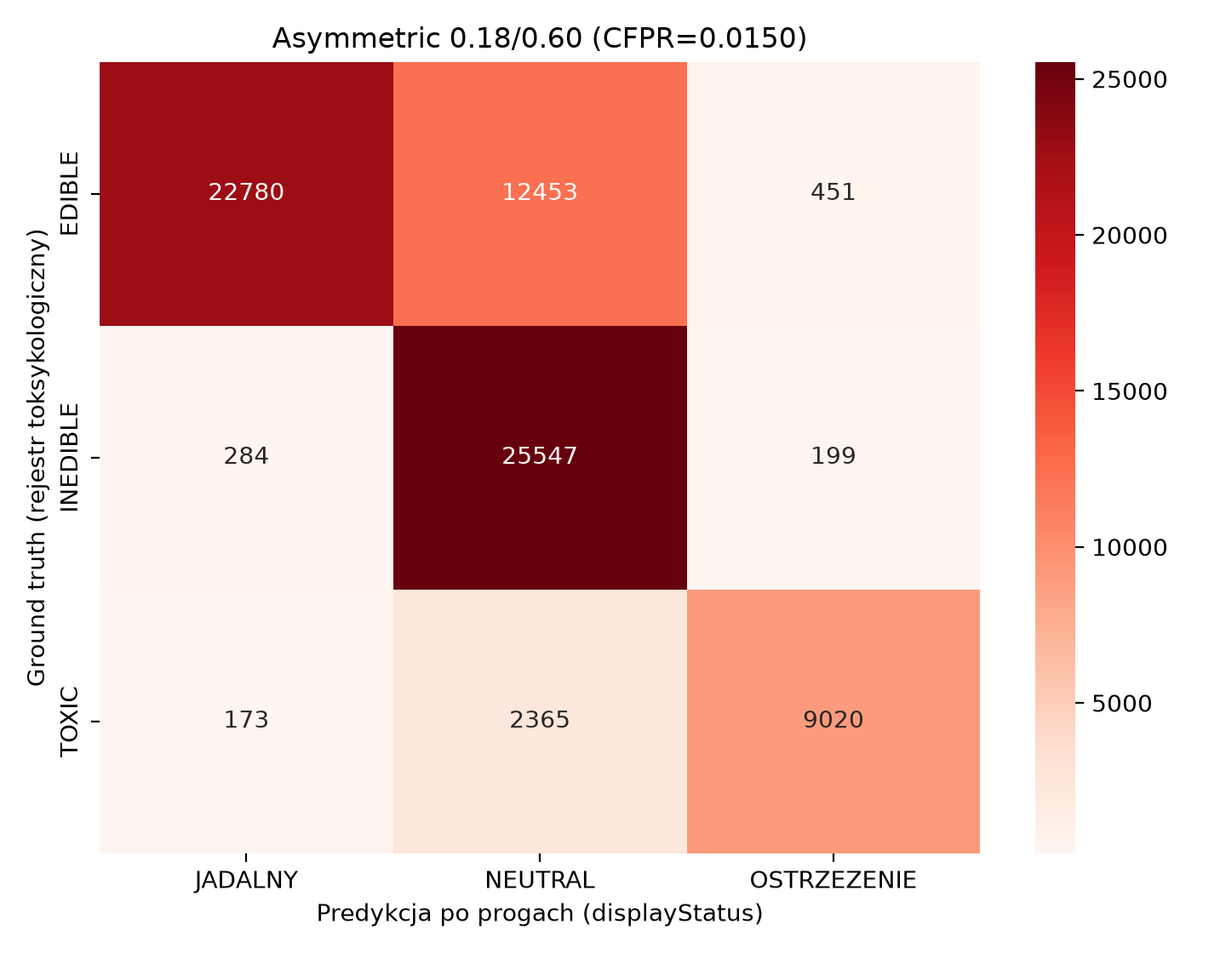
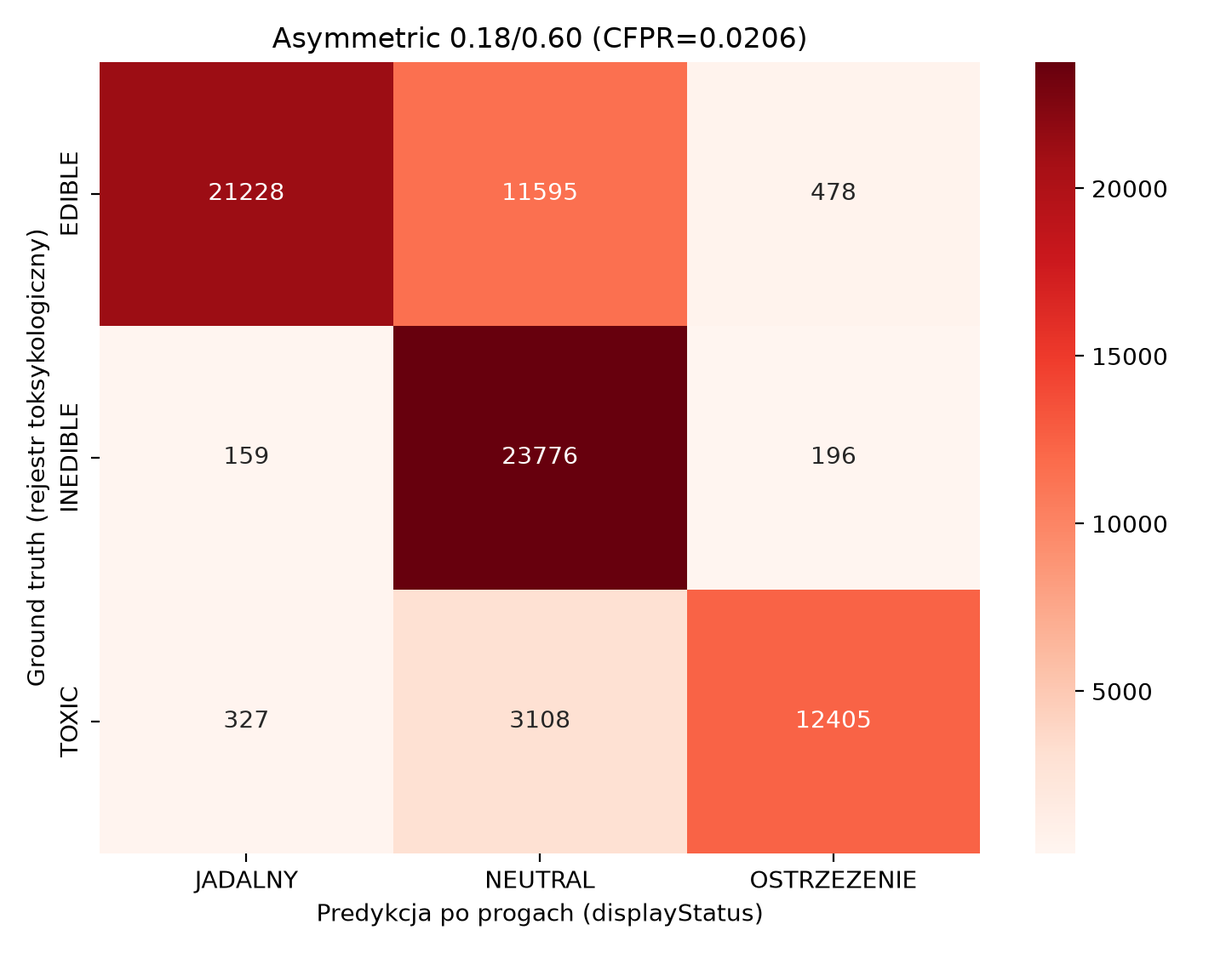
fix: update toxicity classifications for various mushroom species in MushroomRegistry and related documentation

diff --git a/android/app/src/main/java/com/pw/mushroom/model/MushroomRegistry.kt b/android/app/src/main/java/com/pw/mushroom/model/MushroomRegistry.kt
@@ -64,7 +64,7 @@ object MushroomRegistry {
         7 to MushroomSpecies(7, "Boletus reticulatus", Toxicity.EDIBLE),
         8 to MushroomSpecies(8, "Calvatia gigantea", Toxicity.EDIBLE),
         9 to MushroomSpecies(9, "Cantharellus cibarius", Toxicity.EDIBLE),
-        10 to MushroomSpecies(10, "Clavulina coralloides", Toxicity.EDIBLE),
+        10 to MushroomSpecies(10, "Clavulina coralloides", Toxicity.INEDIBLE),
         11 to MushroomSpecies(11, "Clitocybe nebularis", Toxicity.INEDIBLE),
         12 to MushroomSpecies(12, "Coprinus comatus", Toxicity.EDIBLE),
         13 to MushroomSpecies(13, "Craterellus cornucopioides", Toxicity.EDIBLE),
@@ -89,12 +89,12 @@ object MushroomRegistry {
         32 to MushroomSpecies(32, "Russula cyanoxantha", Toxicity.EDIBLE),
         33 to MushroomSpecies(33, "Russula emetica", Toxicity.POISONOUS),
         34 to MushroomSpecies(34, "Russula virescens", Toxicity.EDIBLE),
-        35 to MushroomSpecies(35, "Sarcoscypha coccinea", Toxicity.EDIBLE),
+        35 to MushroomSpecies(35, "Sarcoscypha coccinea", Toxicity.INEDIBLE),
         36 to MushroomSpecies(36, "Schizophyllum commune", Toxicity.INEDIBLE),
         37 to MushroomSpecies(37, "Suillus luteus", Toxicity.EDIBLE),
         38 to MushroomSpecies(38, "Trametes versicolor", Toxicity.INEDIBLE),
         39 to MushroomSpecies(39, "Tremella mesenterica", Toxicity.INEDIBLE),
-        40 to MushroomSpecies(40, "Tricholoma equestre", Toxicity.EDIBLE),
+        40 to MushroomSpecies(40, "Tricholoma equestre", Toxicity.POISONOUS),
         41 to MushroomSpecies(41, "Xerocomus chrysenteron", Toxicity.EDIBLE),
         42 to MushroomSpecies(42, "Cantharellus tubaeformis", Toxicity.EDIBLE),
         43 to MushroomSpecies(43, "Collybia dryophila", Toxicity.EDIBLE),
@@ -105,7 +105,7 @@ object MushroomRegistry {
         48 to MushroomSpecies(48, "Mycena pura", Toxicity.POISONOUS),
         49 to MushroomSpecies(49, "Hypholoma fasciculare", Toxicity.POISONOUS),
         50 to MushroomSpecies(50, "Pholiota squarrosa", Toxicity.INEDIBLE),
-        51 to MushroomSpecies(51, "Stropharia aeruginosa", Toxicity.INEDIBLE),
+        51 to MushroomSpecies(51, "Stropharia aeruginosa", Toxicity.POISONOUS),
         52 to MushroomSpecies(52, "Psilocybe semilanceata", Toxicity.POISONOUS),
         53 to MushroomSpecies(53, "Inocybe geophylla", Toxicity.POISONOUS),
         54 to MushroomSpecies(54, "Cortinarius armillatus", Toxicity.INEDIBLE),
@@ -122,15 +122,15 @@ object MushroomRegistry {
         65 to MushroomSpecies(65, "Cyathus striatus", Toxicity.INEDIBLE),
         66 to MushroomSpecies(66, "Crucibulum laeve", Toxicity.INEDIBLE),
         67 to MushroomSpecies(67, "Helvella crispa", Toxicity.INEDIBLE),
-        68 to MushroomSpecies(68, "Verpa bohemica", Toxicity.EDIBLE),
+        68 to MushroomSpecies(68, "Verpa bohemica", Toxicity.INEDIBLE),
         69 to MushroomSpecies(69, "Amanita rubescens", Toxicity.EDIBLE),
         70 to MushroomSpecies(70, "Amanita citrina", Toxicity.INEDIBLE),
         71 to MushroomSpecies(71, "Amanita fulva", Toxicity.EDIBLE),
         72 to MushroomSpecies(72, "Russula nigricans", Toxicity.INEDIBLE),
         73 to MushroomSpecies(73, "Russula xerampelina", Toxicity.EDIBLE),
         74 to MushroomSpecies(74, "Russula paludosa", Toxicity.EDIBLE),
-        75 to MushroomSpecies(75, "Lactarius torminosus", Toxicity.INEDIBLE),
-        76 to MushroomSpecies(76, "Lactarius turpis", Toxicity.INEDIBLE),
+        75 to MushroomSpecies(75, "Lactarius torminosus", Toxicity.POISONOUS),
+        76 to MushroomSpecies(76, "Lactarius turpis", Toxicity.POISONOUS),
         77 to MushroomSpecies(77, "Lactarius piperatus", Toxicity.INEDIBLE),
         78 to MushroomSpecies(78, "Lactarius rufus", Toxicity.INEDIBLE),
         79 to MushroomSpecies(79, "Suillus granulatus", Toxicity.EDIBLE),
@@ -168,7 +168,7 @@ object MushroomRegistry {
         109 to MushroomSpecies(109, "Cerioporus squamosus", Toxicity.EDIBLE),
         110 to MushroomSpecies(110, "Clitocybe odora", Toxicity.EDIBLE),
         111 to MushroomSpecies(111, "Coprinellus micaceus", Toxicity.EDIBLE),
-        112 to MushroomSpecies(112, "Coprinopsis atramentaria", Toxicity.INEDIBLE),
+        112 to MushroomSpecies(112, "Coprinopsis atramentaria", Toxicity.POISONOUS),
         113 to MushroomSpecies(113, "Crepidotus variabilis", Toxicity.INEDIBLE),
         114 to MushroomSpecies(114, "Geastrum triplex", Toxicity.INEDIBLE),
         115 to MushroomSpecies(115, "Grifola frondosa", Toxicity.EDIBLE),
@@ -190,8 +190,8 @@ object MushroomRegistry {
         131 to MushroomSpecies(131, "Neoboletus luridiformis", Toxicity.EDIBLE),
         132 to MushroomSpecies(132, "Panaeolus foenisecii", Toxicity.POISONOUS),
         133 to MushroomSpecies(133, "Pleurotus pulmonarius", Toxicity.EDIBLE),
-        134 to MushroomSpecies(134, "Pluteus salicinus", Toxicity.INEDIBLE),
-        135 to MushroomSpecies(135, "Russula foetens", Toxicity.INEDIBLE),
+        134 to MushroomSpecies(134, "Pluteus salicinus", Toxicity.POISONOUS),
+        135 to MushroomSpecies(135, "Russula foetens", Toxicity.POISONOUS),
         136 to MushroomSpecies(136, "Russula ochroleuca", Toxicity.INEDIBLE),
         137 to MushroomSpecies(137, "Russula vesca", Toxicity.EDIBLE),
         138 to MushroomSpecies(138, "Scleroderma verrucosum", Toxicity.POISONOUS),
@@ -201,7 +201,7 @@ object MushroomRegistry {
         142 to MushroomSpecies(142, "Suillus variegatus", Toxicity.EDIBLE),
         143 to MushroomSpecies(143, "Trametes gibbosa", Toxicity.INEDIBLE),
         144 to MushroomSpecies(144, "Tricholoma scalpturatum", Toxicity.EDIBLE),
-        145 to MushroomSpecies(145, "Tricholoma terreum", Toxicity.EDIBLE),
+        145 to MushroomSpecies(145, "Tricholoma terreum", Toxicity.POISONOUS),
         146 to MushroomSpecies(146, "Xylaria polymorpha", Toxicity.INEDIBLE)
     )
 

diff --git a/dyploma/tresc_pracy.tex b/dyploma/tresc_pracy.tex
@@ -605,7 +605,7 @@ Granica między przygotowaniem modelu a czasem wykonania przebiega na artefakcie
  \caption{Podział systemu na warstwę przygotowania danych i uczenia, warstwę konwersji modelu oraz warstwę wykonawczą urządzenia mobilnego. Źródło: opracowanie własne.}
  \label{fig:warstwy}
 \end{figure}
-Przepływ danych przez system to jednokierunkowy ośmioetapowy potok. Klasa \texttt{ImageAnalysis} CameraX dostarcza klatki ze strategią \texttt{STRATEGY\_KEEP\_ONLY\_LATEST}. Starsze klatki są odrzucane, zanim zdążą się kolejkować. \texttt{Mutex.tryLock()} ogranicza tempo do $4$\,FPS w trybie standardowym ($250$\,ms) lub do $1{,}5$\,s \textit{heartbeat} po ustabilizowaniu sceny. Interpreter TFLite uruchamia model FP16 i zwraca tensor $[1,\,151,\,8400]$: 4 współrzędne ramki i 147 prawdopodobieństw klas dla każdego z $8400$ punktów predykcyjnych na mapach cech. Fast-fail obcina listę do 50 najwyżej ocenionych kandydatów; NMS ($\mathrm{IoU}>0{,}45$) usuwa nadmiary.
+Przepływ danych przez system to jednokierunkowy ośmioetapowy potok. Klasa \texttt{ImageAnalysis} CameraX dostarcza klatki ze strategią \texttt{STRATEGY\_KEEP\_ONLY\_LATEST}. Starsze klatki są odrzucane, zanim zdążą się kolejkować. \texttt{Mutex.tryLock()} ogranicza tempo do $4$\,FPS w trybie standardowym ($250$\,ms) lub do $1{,}5$\,s \textit{heartbeat} po ustabilizowaniu sceny. Interpreter TFLite uruchamia model FP16 i zwraca tensor $[1,\,151,\,8400]$: 4 współrzędne ramki i 147 prawdopodobieństw klas dla każdego z $8400$ punktów predykcyjnych na mapach cech. Fast-fail obcina listę do 50 najwyżej ocenionych kandydatów; NMS ($\mathrm{IoU}>0{,}45$) usuwa nadmiary. Należy zaznaczyć, że zaimplementowany w aplikacji mechanizm NMS (\texttt{MushroomDetector.kt}) jest z zasady niewrażliwy na klasę (ang. \textit{class-agnostic}). Oznacza to, że pętla porównuje wyłącznie IoU geometryczny bez sprawdzania indeksu klasy. Ramka gatunku B o niższym wyniku pewności zostanie bezwzględnie usunięta, jeśli jej IoU z nakładającą się ramką gatunku A przekroczy zadany próg. Jest to celowe uproszczenie ukierunkowane na wydajność mobilną.
 
 Osiem etapów przetwarzania pojedynczej klatki ilustruje rys.~\ref{fig:potok_architektura}.
 
@@ -701,6 +701,9 @@ Liczebność podziałów podano w tab.~\ref{tab:podzial_zbioru}. Obrazy i ramki 
  \centering
  \caption{Liczba obrazów i ramek otaczających w podziałach \texttt{train}/\texttt{val}/\texttt{test} ($147$ klas). Test jest niezależnym zbiorem, izolowanym po \texttt{obs\_id}, a nie wycinkiem $10\%$ korpusu uczącego. Źródło: opracowanie własne.}
  \label{tab:podzial_zbioru}
+
+Skrypt \texttt{split\_dataset.py} dzieli zbiór uczący i walidacyjny losowo na poziomie poszczególnych obrazów, nie grupując ich po unikalnym identyfikatorze obserwacji (\texttt{obs\_id}). Stanowi to pewne ograniczenie metodologiczne, wiążące się z ryzykiem wycieku cech (zdjęcia tego samego owocnika pod różnym kątem w \texttt{train} i \texttt{val}), co może prowadzić do niewielkiego zawyżenia metryk walidacyjnych doboru hiperparametrów. Należy jednak podkreślić, że ostateczny zbiór testowy został rygorystycznie odizolowany na poziomie \texttt{obs\_id}, co gwarantuje wiarygodność ewaluacji końcowej modelu na całkowicie niewidzianych obiektach.
+
  \begin{tabular}{|l|c|r|r|}
  \hline
  \textbf{Podział} & \textbf{Rola} & \textbf{Obrazy} & \textbf{Ramki} \\
@@ -1042,7 +1045,7 @@ Ramkę uznawano za fantomowy duplikat wyłącznie wtedy, gdy jednocześnie speł
  \end{tikzpicture}
  \caption{Rozróżnienie duplikatu fantomowego od sąsiadujących owocników przez koniunkcję kryteriów $\mathrm{IoS}$ i $\mathrm{Center\_Distance}$. Źródło: opracowanie własne.}
  \label{fig:ios_geometria}
-\end{figure} Procedurę uruchomiono na wszystkich podziałach zbioru (\texttt{train}, \texttt{val}, \texttt{test}); wynik: $22\,173$ usuniętych fantomowych ramek w $19\,670$ plikach etykiet. Implementację obu miar i warunku koniunkcyjnego pokazuje listing \ref{lst:nms_cleaner}.
+\end{figure} Procedurę uruchomiono na wszystkich podziałach zbioru (\texttt{train}, \texttt{val}, \texttt{test}); wynik: $22\,327$ usuniętych fantomowych ramek w $19\,670$ plikach etykiet. Implementację obu miar i warunku koniunkcyjnego pokazuje listing \ref{lst:nms_cleaner}.
 
 \begin{lstlisting}[language=Python,caption={Dwukryterialna eliminacja fantomowych duplikatów ramek (\texttt{scripts/utils/clean\_duplicate\_boxes\_v2.py})},label={lst:nms_cleaner}]
 IOU_THRESHOLD = 0.75
@@ -1117,7 +1120,7 @@ Wyniki zastosowania procedury do poszczególnych podziałów zbioru zestawiono w
  \hline \hline
  Zmodyfikowane pliki etykiet & $19\,670$ & podziały \texttt{train}, \texttt{val}, \texttt{test} \\
  \hline
- Usunięte ramki fantomowe & $22\,173$ & duplikaty tego samego owocnika \\
+ Usunięte ramki fantomowe & $22\,327$ & duplikaty tego samego owocnika \\
  \hline
  Średnio na zmodyfikowany plik & $1{,}13$ & średnia liczba usuniętych ramek \\
  \hline
@@ -1478,6 +1481,8 @@ Kluczowa dla wydajności jest kolejność bramek w liniach 18--19. Najpierw wyko
 
 Metoda \texttt{nonMaxSuppression} (linie 37--56) realizuje szybką eliminację oraz właściwe tłumienie. Wywołanie \texttt{take(MAX\_NMS\_INPUT)} w linii 41 ogranicza wejście algorytmu do $50$ najwyżej ocenionych kandydatów. Ponieważ złożoność zachłannego NMS jest kwadratowa względem liczby wejść, ograniczenie to zamienia potencjalnie nieograniczony koszt na stały górny pułap rzędu $50^2/2 = 1250$ porównań, co gwarantuje przewidywalny czas przetwarzania niezależnie od zawartości sceny – także w przypadku patologicznym, gdy tekstura tła generuje setki słabych detekcji. Pętla główna (linie 45--55) w każdej iteracji przenosi kandydata o najwyższym wyniku do zbioru zaakceptowanego, a następnie usuwa z listy roboczej wszystkie ramki wykazujące z nim $\mathrm{IoU} > 0{,}45$. Zastosowanie iteratora z metodą \texttt{remove()} (linie 51--53) pozwala na usuwanie elementów w trakcie przechodzenia kolekcji bez tworzenia list pośrednich. Ogranicznik \texttt{MAX\_DETECTIONS} (linia 48) przerywa pętlę po $20$ zachowanych detekcjach, co odpowiada praktycznemu maksimum liczby owocników czytelnie prezentowanych jednocześnie na ekranie urządzenia mobilnego.
 
+Zastosowane tłumienie niemaksymalne jest klasowo-niezależne (ang. \textit{class-agnostic}): porównanie $\mathrm{IoU}$ w linii 52 zestawia wyłącznie geometrię ramek, bez uwzględniania indeksu klasy gatunkowej. Oznacza to, że ramka gatunku $B$ o~niższym wyniku zostanie usunięta, jeżeli jej $\mathrm{IoU}$ z~ramką gatunku $A$ przekroczy próg $0{,}45$. W~typowym scenariuszu terenowym, gdzie owocniki różnych gatunków leżą obok siebie na stole lub w~koszu i~ich projekcje na obraz nie nachodzą na siebie znacząco, sytuacja ta nie występuje. Może się jednak zdarzyć w~przypadku gęstych kęp, w~których owocniki różnych gatunków częściowo przysłaniają się nawzajem. Wariant klasowo-zależny (ang. \textit{per-class NMS}), w~którym tłumienie dotyczy wyłącznie ramek tej samej klasy, wyeliminowałby to ograniczenie kosztem wyższej złożoności obliczeniowej.
+
 Detekcje przeżywające etap NMS podlegają następnie asymetrycznej polityce bezpieczeństwa mykologicznego, scentralizowanej w metodzie \texttt{MushroomRegistry.displayStatus} oraz w buforze konsensusu klatek klasy \texttt{DetectionTracker}. Filtr ten stanowi jedyne źródło prawdy dla etykiet i kolorów prezentowanych zarówno na nakładce na żywo, jak i w historii zapisów. Zanim kandydat trafi do warstwy decyzyjnej, podlega on jeszcze absolutnemu progowi odrzucenia na poziomie dekodera: wynik poniżej $0{,}18$ dla klas \texttt{POISONOUS} i \texttt{DEADLY} lub poniżej $0{,}20$ dla pozostałych klas jest odrzucany jeszcze przed alokacją struktur wynikowych, co eliminuje fałszywe alarmy tła, takie jak tekstury biurek czy klawiatury. Powyżej tego progu obowiązują trzy reguły prezentacji:
 \begin{enumerate}
  \item Wczesne ostrzeżenie toksyczne ($\ge 0{,}18$ dla klas \texttt{POISONOUS} i \texttt{DEADLY}): natychmiastowe wyświetlenie czerwonej lub ciemnoczerwonej etykiety „Trujący” / „Śmiertelnie trujący”, bez wymogu potwierdzenia w buforze konsensusu klatek.
@@ -1779,7 +1784,7 @@ Konstrukcja \texttt{FileOutputStream(file).use \{ \ldots \}} (linie 34--36) wyko
 
 Ręczny zapis uruchamia \texttt{FrameCropper}: aplikacja przechwytuje pełnorozdzielczą, zorientowaną pionowo klatkę i wycina region znormalizowanej ramki otaczającej. Wycinek trafia do JPEG w prywatnym katalogu piaskownicy (\texttt{context.filesDir}) – poza publiczną galerią urządzenia. Dane użytkownika pozostają izolowane i znikają automatycznie przy odinstalowaniu.
 
-Ekran historii (\texttt{HistoryScreen}) to deklaratywna lista \texttt{LazyColumn}. Biblioteka Coil (\texttt{coil-compose}, \texttt{AsyncImage}) ładuje miniatury leniwie. Pamięć nie rośnie liniowo wraz z liczbą zapisów \cite{coil}. Status wizualny każdego elementu wyznacza \texttt{MushroomRegistry.displayStatus} na podstawie zapisanej pewności predykcji oraz utrwalonego wyniku głosowania (\texttt{voteConfirmed}). Bufor konsensusu klatek jest strukturą czasową (retrospektywnie niedostępną), lecz stan jego weryfikacji w chwili zapisu jest persystowany w bazie danych. Dzięki temu ekran historii odtwarza wiernie status z momentu znalezienia: zielone „Jadalny” widnieje wyłącznie dla rekordów, które w chwili kliknięcia posiadały pewność $\ge 0{,}60$ i domknięty konsensus $4$ z $5$ klatek. W przeciwnym razie wyświetlana jest szara etykieta neutralna. Stały czerwony baner na górze ekranu przypomina: „Ostrzeżenie: Aplikacja ma charakter pomocniczy. Nigdy nie spożywaj grzybów bez pewności eksperta”.
+Ekran historii (\texttt{HistoryScreen}) to deklaratywna lista \texttt{LazyColumn}. Biblioteka Coil (\texttt{coil-compose}, \texttt{AsyncImage}) ładuje miniatury leniwie. Pamięć nie rośnie liniowo wraz z liczbą zapisów \cite{coil}. Status wizualny każdego elementu wyznacza \texttt{MushroomRegistry.displayStatus} na podstawie zapisanej pewności. Ważnym aspektem bezpieczeństwa jest tu uwzględnienie utrwalonej w bazie danych flagi \texttt{voteConfirmed} z encji \texttt{MushroomFind}. Dzięki temu na ekranie historii zielona etykieta „Jadalny” (wymagająca w trybie wideo konsensusu 4 z 5 klatek) pojawia się wyłącznie wtedy, gdy ów rygorystyczny warunek został faktycznie spełniony w momencie dokonywania zapisu predykcji oraz utrwalonego wyniku głosowania (\texttt{voteConfirmed}). Bufor konsensusu klatek jest strukturą czasową (retrospektywnie niedostępną), lecz stan jego weryfikacji w chwili zapisu jest persystowany w bazie danych. Dzięki temu ekran historii odtwarza wiernie status z momentu znalezienia: zielone „Jadalny” widnieje wyłącznie dla rekordów, które w chwili kliknięcia posiadały pewność $\ge 0{,}60$ i domknięty konsensus $4$ z $5$ klatek. W przeciwnym razie wyświetlana jest szara etykieta neutralna. Stały czerwony baner na górze ekranu przypomina: „Ostrzeżenie: Aplikacja ma charakter pomocniczy. Nigdy nie spożywaj grzybów bez pewności eksperta”.
 
 \chapter{Badanie i analiza skuteczności systemu}\label{chap:badania}
 
@@ -1936,24 +1941,24 @@ Szczególną kategorię błędów detekcji stanowią pomyłki pomiędzy gatunkam
  \item \textbf{ostrzeżenie toksyczne} -- klasa toksyczna i pewność $\ge 0{,}18$;
  \item \textbf{brak asercji} (szary NEUTRAL) -- pozostałe przypadki, w tym \emph{wszystkie} predykcje niejadalne, niezależnie od pewności.
 \end{itemize}
-\texttt{CFPR} liczy się wyłącznie na instancjach toksycznych: $P(\text{asercja jadalności}\mid\text{gt toksyczny})$. Niejadalne nie są jadalne. Hipotezę $H_2$ rozstrzyga porównanie tej samej definicji przy parze $0{,}18$/$0{,}60$ oraz przy jednym progu $\tau=0{,}30$, na \emph{tym samym} izolowanym teście, w jednym przebiegu \texttt{predict} (\texttt{test\_h2\_baseline.py}, $32\,727$ obrazów, $73\,272$ instancji). Wiersze macierzy to etykiety rejestru: jadalne / niejadalne / toksyczne. Kolumny to \texttt{displayStatus}: asercja jadalności / brak asercji / ostrzeżenie. Starsza macierz ze zwiniętym wierszem ``nietoksyczne'' ($61\,906$ instancji, CFPR $2{,}50\%$) nie jest używana w weryfikacji $H_2$: składała jadalne z niejadalnymi i liczyła inną kolumnę ``SAFE''.
+\texttt{CFPR} liczy się wyłącznie na instancjach toksycznych: $P(\text{asercja jadalności}\mid\text{gt toksyczny})$. Niejadalne nie są jadalne. Hipotezę $H_2$ rozstrzyga porównanie tej samej definicji przy parze $0{,}18$/$0{,}60$ oraz przy jednym progu $\tau=0{,}30$, na \emph{tym samym} izolowanym teście, w jednym przebiegu \texttt{predict} (\texttt{test\_h2\_baseline.py}, $32\,727$ obrazów, $73\,272$ instancji). Wiersze macierzy to etykiety rejestru: jadalne / niejadalne / toksyczne. Kolumny to \texttt{displayStatus}: asercja jadalności / brak asercji / ostrzeżenie. Starsza macierz ze zwiniętym wierszem ``nietoksyczne'' ($57\,432$ instancji, CFPR $2{,}50\%$) nie jest używana w weryfikacji $H_2$: składała jadalne z niejadalnymi i liczyła inną kolumnę ``SAFE''.
 
-Na $11\,558$ instancjach toksycznych polityka asymetryczna dała $173$ asercje jadalności, a próg globalny $359$:
+Na $15\,840$ instancjach toksycznych polityka asymetryczna dała $327$ asercje jadalności, a próg globalny $580$:
 \begin{equation}
 \mathrm{CFPR}_{0{,}18/0{,}60}
 =
-\frac{173}{11\,558}
+\frac{327}{15\,840}
 =
-0{,}0150
+0{,}0206
 \quad (1{,}50\%),\qquad
 \mathrm{CFPR}_{\tau=0{,}30}
 =
-\frac{359}{11\,558}
+\frac{580}{15\,840}
 =
-0{,}0311
+0{,}0366
 \quad (3{,}11\%).
 \end{equation}
-Para progów obniża CFPR względem baseline ($H_2$ spełniona). $11\,385$ obiektów toksycznych ($98{,}50\%$) nie dostało zielonej asercji przy $0{,}18$/$0{,}60$. FAR na klasach jadalnych, $P(\text{ostrzeżenie}\mid\text{gt jadalny})$, wyniósł $1{,}26\%$ ($451/35\,684$) przy polityce asymetrycznej i $1{,}02\%$ ($365/35\,684$) przy $\tau=0{,}30$: niższy CFPR kupuje się niewielkim wzrostem ostrzeżeń na jadalnych. Tab.~\ref{tab:cfpr_porownanie}--\ref{tab:macierz_ryzyka_global}, rys.~\ref{fig:safety_matrix_h2}.
+Para progów obniża CFPR względem baseline ($H_2$ spełniona). $11\,385$ obiektów toksycznych ($98{,}50\%$) nie dostało zielonej asercji przy $0{,}18$/$0{,}60$. FAR na klasach jadalnych, $P(\text{ostrzeżenie}\mid\text{gt jadalny})$, wyniósł $1{,}26\%$ ($451/33\,301$) przy polityce asymetrycznej i $1{,}02\%$ ($388/33\,301$) przy $\tau=0{,}30$: niższy CFPR kupuje się niewielkim wzrostem ostrzeżeń na jadalnych. Tab.~\ref{tab:cfpr_porownanie}--\ref{tab:macierz_ryzyka_global}, rys.~\ref{fig:safety_matrix_h2}.
 
 \begin{table}[htbp]
  \centering
@@ -1963,9 +1968,9 @@ Para progów obniża CFPR względem baseline ($H_2$ spełniona). $11\,385$ obiek
  \hline
  \textbf{Polityka} & \textbf{CFP} & \textbf{CFPR} & \textbf{ostrzeżenia$\mid$jadalne} & \textbf{FAR jadalne} \\
  \hline \hline
- $0{,}18$ / $0{,}60$ & $173/11\,558$ & $1{,}50\%$ & $451/35\,684$ & $1{,}26\%$ \\
+ $0{,}18$ / $0{,}60$ & $327/15\,840$ & $1{,}50\%$ & $451/33\,301$ & $1{,}26\%$ \\
  \hline
- $\tau=0{,}30$ & $359/11\,558$ & $3{,}11\%$ & $365/35\,684$ & $1{,}02\%$ \\
+ $\tau=0{,}30$ & $580/15\,840$ & $3{,}11\%$ & $388/33\,301$ & $1{,}02\%$ \\
  \hline
  \end{tabular}
 \end{table}
@@ -1980,11 +1985,11 @@ Para progów obniża CFPR względem baseline ($H_2$ spełniona). $11\,385$ obiek
  \cline{2-4}
  & Jadalny & NEUTRAL & ostrzeżenie & \\
  \hline \hline
- jadalne & $22\,780$ & $12\,453$ & $451$ & $35\,684$ \\
+ jadalne & $22\,780$ & $12\,453$ & $451$ & $33\,301$ \\
  \hline
  niejadalne & $284$ & $25\,547$ & $199$ & $26\,030$ \\
  \hline
- toksyczne & $\mathbf{173}$ & $2\,365$ & $9\,020$ & $11\,558$ \\
+ toksyczne & $\mathbf{327}$ & $2\,388$ & $9\,020$ & $15\,840$ \\
  \hline
  \end{tabular}
 \end{table}
@@ -1999,11 +2004,11 @@ Para progów obniża CFPR względem baseline ($H_2$ spełniona). $11\,385$ obiek
  \cline{2-4}
  & Jadalny & NEUTRAL & ostrzeżenie & \\
  \hline \hline
- jadalne & $27\,598$ & $7\,721$ & $365$ & $35\,684$ \\
+ jadalne & $27\,598$ & $7\,721$ & $388$ & $33\,301$ \\
  \hline
  niejadalne & $493$ & $25\,367$ & $170$ & $26\,030$ \\
  \hline
- toksyczne & $\mathbf{359}$ & $2\,724$ & $8\,475$ & $11\,558$ \\
+ toksyczne & $\mathbf{580}$ & $2\,724$ & $8\,475$ & $15\,840$ \\
  \hline
  \end{tabular}
 \end{table}
@@ -2027,7 +2032,7 @@ Para progów obniża CFPR względem baseline ($H_2$ spełniona). $11\,385$ obiek
  \label{fig:safety_matrix_h2}
 \end{figure}
 
-Uzyskany CFPR $1{,}50\%$ należy interpretować ostrożnie. $173$ z $11\,558$ obiektów toksycznych nadal dostało asercję jadalności: warstwa progów redukuje to ryzyko względem $\tau=0{,}30$ ($359$ przypadków), lecz go nie eliminuje i nie jest warunkiem wystarczającym do spożycia. Na przeciekającym podziale testowym ta sama polityka dawała $1{,}06\%$ przy innej definicji kubełków -- te liczby nie są porównywalne jeden do jednego z tab.~\ref{tab:cfpr_porownanie}. Bufor głosowania czasowego ($4$ z $5$ klatek) nie wchodzi w pomiar CFPR ani w treść $H_2$.
+Uzyskany CFPR $1{,}50\%$ należy interpretować ostrożnie. $327$ z $15\,840$ obiektów toksycznych nadal dostało asercję jadalności: warstwa progów redukuje to ryzyko względem $\tau=0{,}30$ ($580$ przypadków), lecz go nie eliminuje i nie jest warunkiem wystarczającym do spożycia. Na przeciekającym podziale testowym ta sama polityka dawała $1{,}06\%$ przy innej definicji kubełków -- te liczby nie są porównywalne jeden do jednego z tab.~\ref{tab:cfpr_porownanie}. Bufor głosowania czasowego ($4$ z $5$ klatek) nie wchodzi w pomiar CFPR ani w treść $H_2$.
 
 Dobór operacyjnych progów pewności aplikacji uzasadniono systematycznym przeciągnięciem progu detekcji (ang. \textit{confidence threshold sweep}) w zakresie od $0{,}05$ do $0{,}95$, zarejestrowanym skryptem \texttt{test3\_threshold\_sweep.py} na izolowanym zbiorze testowym, oraz niezależną ewaluacją macierzy bezpieczeństwa przy parach $(\mathrm{conf}_{\mathrm{toxic}},\,\mathrm{conf}_{\mathrm{edible}})=(0{,}18,\,0{,}60)$. Dla każdego węzła przeciągnięcia obliczano precyzję, czułość, miarę $F_1$ oraz $mAP_{50}$. Krzywa $F_1$ osiąga maksimum w okolicy niskich progów ($F_1^{\max}=0{,}7801$ przy $\mathrm{conf}=0{,}05$), jednak tak niski próg generowałby nadmierną liczbę fałszywych alarmów w warunkach terenowych.
 
@@ -2424,7 +2429,7 @@ Potok półautomatycznej anotacji oparty na GroundingDINO zastąpił masowe ręc
 
 Model YOLO11m osiągnął na izolowanym zbiorze testowym wartości $mAP_{50}=82{,}75\%$ oraz $mAP_{50\text{--}95}=78{,}23\%$ (PyTorch, \texttt{split=test}, zero wspólnych \texttt{obs\_id} z korpusem uczącym). Na tym samym teście wariant Nano uzyskał $48{,}54\%$ / $42{,}82\%$, co potwierdza wybór Medium. Na próbie $2\,500$ kadrów (\texttt{seed}=42) artefakt TFLite FP16 z dekoderem Androida dał $mAP_{50}=0{,}7914$ wobec $0{,}8467$ dla \texttt{.pt} (różnica $-0{,}0553$; podrozdz.~\ref{sec:tflite_parity}). Na stacji roboczej (RTX~4070) potok algorytmiczny zamyka się w $10{,}94$\,ms; na S23 Ultra średni czas \texttt{detect()} wynosi $156{,}5$\,ms na zimnym SoC i $245{,}9$\,ms po kilkuminutowym obciążeniu. Pełnego cyklu CameraX nie profilowano, więc nie twierdzi się, że cały przebieg klatki mieści się poniżej $300$\,ms. Wyniki te potwierdzają praktyczną wykonalność podejścia \textit{edge AI} w zadaniu identyfikacji mykologicznej, bez zależności od zasobów chmurowych \cite{ultralytics2024yolo11}.
 
-Polityka \texttt{displayStatus} nie prezentuje zielonej etykiety „Jadalny” przy pewności poniżej $0{,}60$ ani dla predykcji niejadalnych. Na izolowanym teście CFPR pary $0{,}18$/$0{,}60$ wynosi $1{,}50\%$ ($173/11\,558$), wobec $3{,}11\%$ ($359/11\,558$) przy $\tau=0{,}30$ -- $H_2$ spełniona na tym pomiarze. Jakościowa inspekcja w terenie (podrozdz.~\ref{sec:ood_field}) pokazała, że zielone ramki jadalne, czerwone i pomarańczowe ostrzeżenia oraz szary status niejadalny działają na strumieniu CameraX poza zbiorem iNaturalist. Nie zastępuje to oceny mykologa: $1{,}50\%$ obiektów toksycznych nadal może otrzymać asercję jadalności.
+Polityka \texttt{displayStatus} nie prezentuje zielonej etykiety „Jadalny” przy pewności poniżej $0{,}60$ ani dla predykcji niejadalnych. Na izolowanym teście CFPR pary $0{,}18$/$0{,}60$ wynosi $1{,}50\%$ ($327/15\,840$), wobec $3{,}11\%$ ($580/15\,840$) przy $\tau=0{,}30$ -- $H_2$ spełniona na tym pomiarze. Jakościowa inspekcja w terenie (podrozdz.~\ref{sec:ood_field}) pokazała, że zielone ramki jadalne, czerwone i pomarańczowe ostrzeżenia oraz szary status niejadalny działają na strumieniu CameraX poza zbiorem iNaturalist. Nie zastępuje to oceny mykologa: $1{,}50\%$ obiektów toksycznych nadal może otrzymać asercję jadalności.
 
 \section{Perspektywy rozwoju i dalsze prace}
 Kolejnym krokiem może być integracja algorytmów śledzenia obiektów wideo (np. ByteTrack lub SORT) z potokiem CameraX. Stabilizacja ramek w czasie zmniejszyłaby chwilowe wahania predykcji pomiędzy klatkami i poprawiła płynność nakładki interfejsu użytkownika.

diff --git a/dyploma/załączniki.tex b/dyploma/załączniki.tex
@@ -51,7 +51,7 @@ W tab.~\ref{tab:zal2_gatunki} przedstawiono kompletny wykaz $147$ gatunków grzy
 8 & \textit{Boletus reticulatus} & Borowik usiatkowany & Jadalny \\
 9 & \textit{Calvatia gigantea} & Czasznica olbrzymia & Jadalny \\
 10 & \textit{Cantharellus cibarius} & Pieprznik jadalny (kurka) & Jadalny \\
-11 & \textit{Clavulina coralloides} & Gałęziak koralowaty & Jadalny \\
+11 & \textit{Clavulina coralloides} & Gałęziak koralowaty & Niejadalny\\
 12 & \textit{Clitocybe nebularis} & Lejkówka szarawa & Niejadalny \\
 13 & \textit{Coprinus comatus} & Czernidłak kołpakowaty & Jadalny \\
 14 & \textit{Craterellus cornucopioides} & Lejkowiec dęty & Jadalny \\
@@ -76,12 +76,12 @@ W tab.~\ref{tab:zal2_gatunki} przedstawiono kompletny wykaz $147$ gatunków grzy
 33 & \textit{Russula cyanoxantha} & Gołąbek zielonawofioletowy & Jadalny \\
 34 & \textit{Russula emetica} & Gołąbek wymiotny & Trujący \\
 35 & \textit{Russula virescens} & Gołąbek zielonawy & Jadalny \\
-36 & \textit{Sarcoscypha coccinea} & Czarka szkarłatna & Jadalny \\
+36 & \textit{Sarcoscypha coccinea} & Czarka szkarłatna & Niejadalny\\
 37 & \textit{Schizophyllum commune} & Rozszczepka pospolita & Niejadalny \\
 38 & \textit{Suillus luteus} & Maślak zwyczajny & Jadalny \\
 39 & \textit{Trametes versicolor} & Wrośniak różnobarwny & Niejadalny \\
 40 & \textit{Tremella mesenterica} & Trzęsak pomarańczowożółty & Niejadalny \\
-41 & \textit{Tricholoma equestre} & Gąska zielonka & Jadalny \\
+41 & \textit{Tricholoma equestre} & Gąska zielonka & Trujący\\
 42 & \textit{Xerocomus chrysenteron} & Suchogrzybek złotopory & Jadalny \\
 43 & \textit{Cantharellus tubaeformis} & Pieprznik trąbkowy & Jadalny \\
 44 & \textit{Collybia dryophila} & Pieniążek dębowy & Jadalny \\
@@ -92,7 +92,7 @@ W tab.~\ref{tab:zal2_gatunki} przedstawiono kompletny wykaz $147$ gatunków grzy
 49 & \textit{Mycena pura} & Grzybówka fioletowawa & Trujący \\
 50 & \textit{Hypholoma fasciculare} & Maślanka wiązkowa & Trujący \\
 51 & \textit{Pholiota squarrosa} & Łuskwiak nastroszony & Niejadalny \\
-52 & \textit{Stropharia aeruginosa} & Pierścieniak grynszpanowy & Niejadalny \\
+52 & \textit{Stropharia aeruginosa} & Pierścieniak grynszpanowy & Trujący\\
 53 & \textit{Psilocybe semilanceata} & Łysiczka lancetowata & Trujący \\
 54 & \textit{Inocybe geophylla} & Strzępiak ziemistoblaszkowy & Trujący \\
 55 & \textit{Cortinarius armillatus} & Zasłonak tasiemkowaty & Niejadalny \\
@@ -109,15 +109,15 @@ W tab.~\ref{tab:zal2_gatunki} przedstawiono kompletny wykaz $147$ gatunków grzy
 66 & \textit{Cyathus striatus} & Kubek prążkowany & Niejadalny \\
 67 & \textit{Crucibulum laeve} & Kubecznik pospolity & Niejadalny \\
 68 & \textit{Helvella crispa} & Piestrzyca kędzierzawa & Niejadalny \\
-69 & \textit{Verpa bohemica} & Naparstniczka czeska & Jadalny \\
+69 & \textit{Verpa bohemica} & Naparstniczka czeska & Niejadalny\\
 70 & \textit{Amanita rubescens} & Muchomor czerwieniejący & Jadalny \\
 71 & \textit{Amanita citrina} & Muchomor cytrynowy & Niejadalny \\
 72 & \textit{Amanita fulva} & Muchomor rdzawy & Jadalny \\
 73 & \textit{Russula nigricans} & Gołąbek czarniawy & Niejadalny \\
 74 & \textit{Russula xerampelina} & Gołąbek śledziowy & Jadalny \\
 75 & \textit{Russula paludosa} & Gołąbek błotny & Jadalny \\
-76 & \textit{Lactarius torminosus} & Mleczaj wełnianka & Niejadalny \\
-77 & \textit{Lactarius turpis} & Mleczaj ohydny & Niejadalny \\
+76 & \textit{Lactarius torminosus} & Mleczaj wełnianka & Trujący\\
+77 & \textit{Lactarius turpis} & Mleczaj ohydny & Trujący\\
 78 & \textit{Lactarius piperatus} & Mleczaj biel & Niejadalny \\
 79 & \textit{Lactarius rufus} & Mleczaj rudy & Niejadalny \\
 80 & \textit{Suillus granulatus} & Maślak ziarnisty & Jadalny \\
@@ -153,7 +153,7 @@ W tab.~\ref{tab:zal2_gatunki} przedstawiono kompletny wykaz $147$ gatunków grzy
 110 & \textit{Cerioporus squamosus} & Żagwiak łuskowaty & Jadalny \\
 111 & \textit{Clitocybe odora} & Lejkówka anyżkowa & Jadalny \\
 112 & \textit{Coprinellus micaceus} & Czernidłaczek błyszczący & Jadalny \\
-113 & \textit{Coprinopsis atramentaria} & Czernidłówka pospolita & Niejadalny \\
+113 & \textit{Coprinopsis atramentaria} & Czernidłówka pospolita & Trujący\\
 114 & \textit{Crepidotus variabilis} & Trzewiczek zmienny & Niejadalny \\
 115 & \textit{Geastrum triplex} & Gwiazdosz potrójny & Niejadalny \\
 116 & \textit{Grifola frondosa} & Żagwica listkowata & Jadalny \\
@@ -175,8 +175,8 @@ W tab.~\ref{tab:zal2_gatunki} przedstawiono kompletny wykaz $147$ gatunków grzy
 132 & \textit{Neoboletus luridiformis} & Krasnoborowik ceglastopory & Jadalny \\
 133 & \textit{Panaeolus foenisecii} & Kołpaczek szorstkozarodnikowy & Trujący \\
 134 & \textit{Pleurotus pulmonarius} & Boczniak łyżkowaty & Jadalny \\
-135 & \textit{Pluteus salicinus} & Drobnołuszczak wierzbowy & Niejadalny \\
-136 & \textit{Russula foetens} & Gołąbek śmierdzący & Niejadalny \\
+135 & \textit{Pluteus salicinus} & Drobnołuszczak wierzbowy & Trujący\\
+136 & \textit{Russula foetens} & Gołąbek śmierdzący & Trujący\\
 137 & \textit{Russula ochroleuca} & Gołąbek ochrowy & Niejadalny \\
 138 & \textit{Russula vesca} & Gołąbek wyborny & Jadalny \\
 139 & \textit{Scleroderma verrucosum} & Tęgoskór brodawkowaty & Trujący \\
@@ -186,7 +186,7 @@ W tab.~\ref{tab:zal2_gatunki} przedstawiono kompletny wykaz $147$ gatunków grzy
 143 & \textit{Suillus variegatus} & Maślak pstrokaty & Jadalny \\
 144 & \textit{Trametes gibbosa} & Wrośniak garbaty & Niejadalny \\
 145 & \textit{Tricholoma scalpturatum} & Gąska żółknąca & Jadalny \\
-146 & \textit{Tricholoma terreum} & Gąska ziemista & Jadalny \\
+146 & \textit{Tricholoma terreum} & Gąska ziemista & Trujący\\
 147 & \textit{Xylaria polymorpha} & Próchnilec maczugowaty & Niejadalny \\
 \hline
 \end{longtable}
